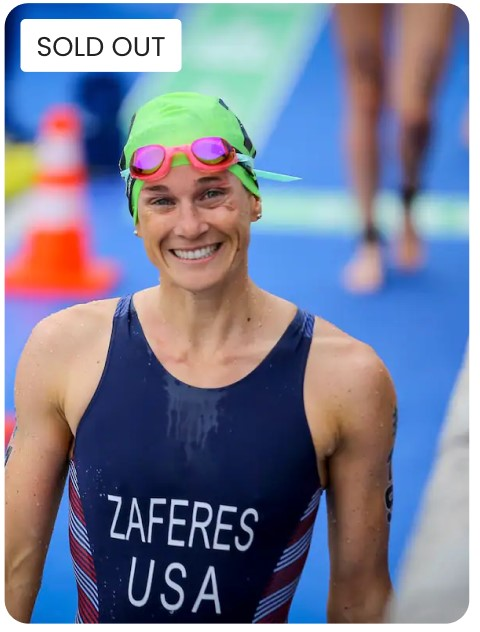
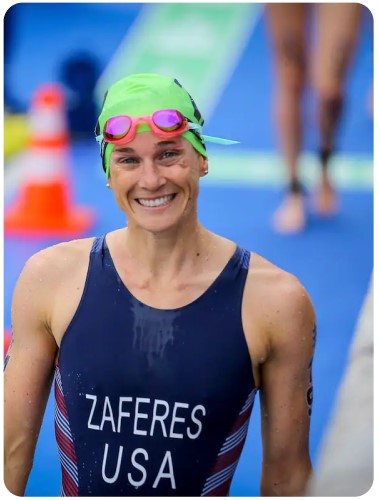
FINAL CHANGE
Section 2 finished

diff --git a/src/data.js b/src/data.js
@@ -1,0 +1,50 @@
+import heroCard from "../src/images/katie.jpg"
+import clairCard from "../src/images/clair.jpg"
+import bobCard from "../src/images/bob.jpg"
+import starImg from "../src/images/star.jpg"
+
+
+export default [
+    {
+        id:1,
+        title: "Life Lessons with Katie Zaferes",
+        description: "I will share with you what I call \"Positively Impactful Moments of Disappointment.\" Throughout my career, many of my highest moments only came after setbacks and losses. But learning from those difficult moments is what gave me the ability to rise above them and reach my goals.",
+        price: 136,
+        heroimg: heroCard,
+        starimg: starImg,
+        stats: {
+            rating: "5.0",
+            reviewCount: "(6)"
+        },
+        location: "USA",
+        openSpots: 0,
+    },
+    {
+        id:2,
+        title: "Learn Wedding Photography",
+        description: "Interested in becoming a wedding photographer? For beginner and experienced photographers alike, join us in learning techniques required to leave the happy couple with memories that'll last a lifetime.",
+        price: 125,
+        heroimg: clairCard,
+        starimg: starImg,
+        stats: {
+            rating: "5.0",
+            reviewCount: "(30)"
+        },
+        location: "USA",
+        openSpots: "27",
+    },
+    {
+        id:3,
+        title: "Group Mountain Biking",
+        description: "Experience the beautiful Norwegian landscape and meet new friends all while conquering rugged terrain on your mountain bike. (Bike provided!)",
+        price: 50,
+        heroimg: bobCard,
+        starimg: starImg,
+        stats: {
+            rating: "4.8",
+            reviewCount: "(2)"
+        },
+        location: "USA",
+        openSpots: 0,
+    }
+]

diff --git a/src/components/Footer.js b/src/components/Footer.js
@@ -1,19 +1,33 @@
 import React from "react";
 import Card from "./Card";
-import heroCard from "../images/katie.jpg"
-import starImg from "../images/star.jpg"
+import data from "../data";
+
+
 
 export default function Footer() {
-    return(
-        <div>
-        <Card 
-            heroimg={heroCard}
-            starimg={starImg}
-            rating="5.0"
-            reviewCount="(6)"
-            country="USA"
-            title="Life Lessons with Katie Zaferes"
-            price="136"/>
-        </div>
-    )
+
+        const cards = data.map(item => {
+            return (
+                <Card 
+                    key={item.id}
+                    item ={item} />
+            )
+        })
+
+        return (
+            <div className="cards-all">
+                {cards}
+            </div>
+        )
 }
+
+/*                    heroimg={item.heroimg}
+                    starimg={item.starimg}
+                    rating={item.stats.rating}
+                    reviewCount={item.stats.reviewCount}
+                    country={item.location}
+                    title={item.title}
+                    price={item.price}
+                    openSpots={item.openSpots}/>  
+
+*/

diff --git a/src/components/Card.js b/src/components/Card.js
@@ -1,23 +1,30 @@
 import React from "react";
 
 export default function Card(props) {
+    let badgeText
+            if (props.item.openSpots === 0) {
+                badgeText = "SOLD OUT"
+            } else {
+                badgeText = "ONLINE"
+            }
     return(
         <card>
             <img
-            src={props.heroimg}
+            src={props.item.heroimg}
             alt="card"
             className="katie-img">
             </img>
+            <div className="availability">{badgeText}</div>
             <div className="loc">
                 <img
-                src={props.starimg}
+                src={props.item.starimg}
                 alt="star"
                 className="star-img">
                 </img>
-                <p>{props.rating} {props.reviewCount} • {props.country}</p>
+                <p>{props.item.stats.rating} {props.item.stats.reviewCount} • {props.item.location}</p>
             </div>
-            <p>{props.title}</p>
-            <p><bol>From ${props.price}</bol> / person</p>
+            <p>{props.item.title}</p>
+            <p><bol>From ${props.item.price}</bol> / person</p>
         </card>
     )
 }

diff --git a/src/index.css b/src/index.css
@@ -67,3 +67,24 @@ card {
 bol {
     font-weight: 600;
 }
+
+.cards-all {
+    display: flex;
+    flex-direction: row;
+    position: inherit;
+    right: 0%;
+}
+
+.availability {
+    border: 2px solid black;
+    max-width: 100;
+    padding: 10;
+    text-align: center;
+    color: black;
+    font-weight: 600;
+    font-size: 14;
+    border-radius: 8px;
+    position: absolute;
+    background-color: #ffff;
+    margin: 10;
+}
